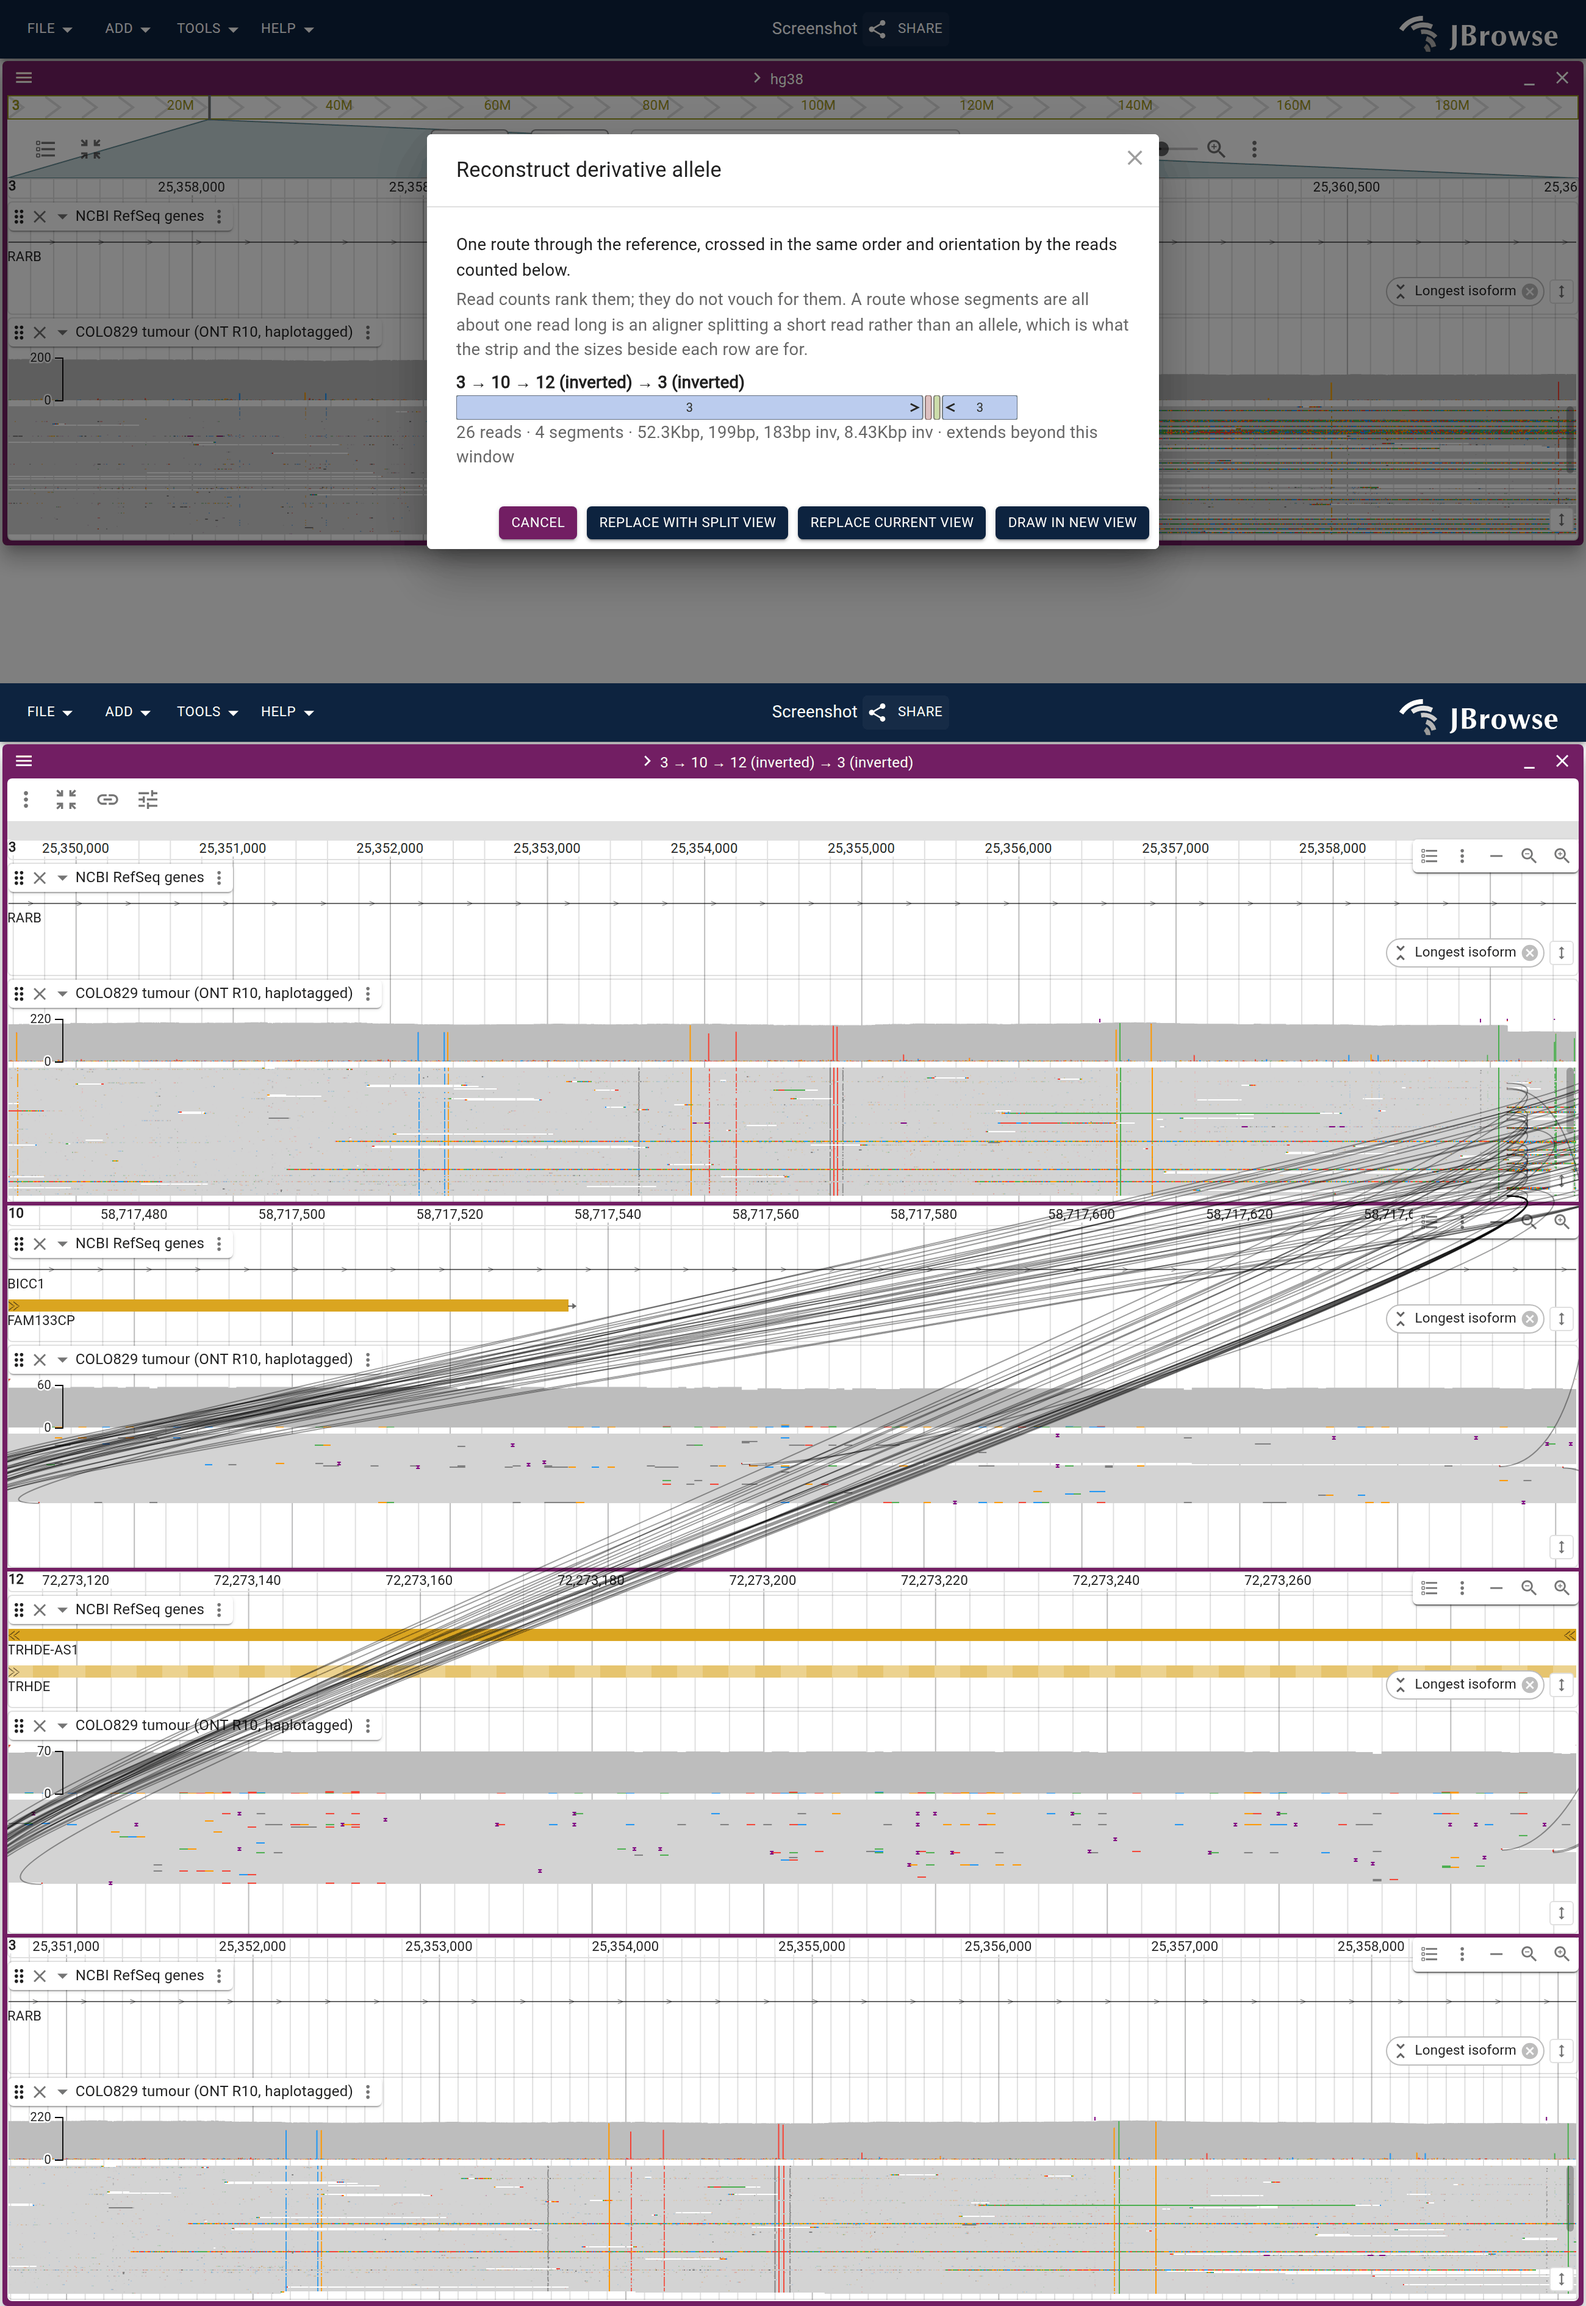
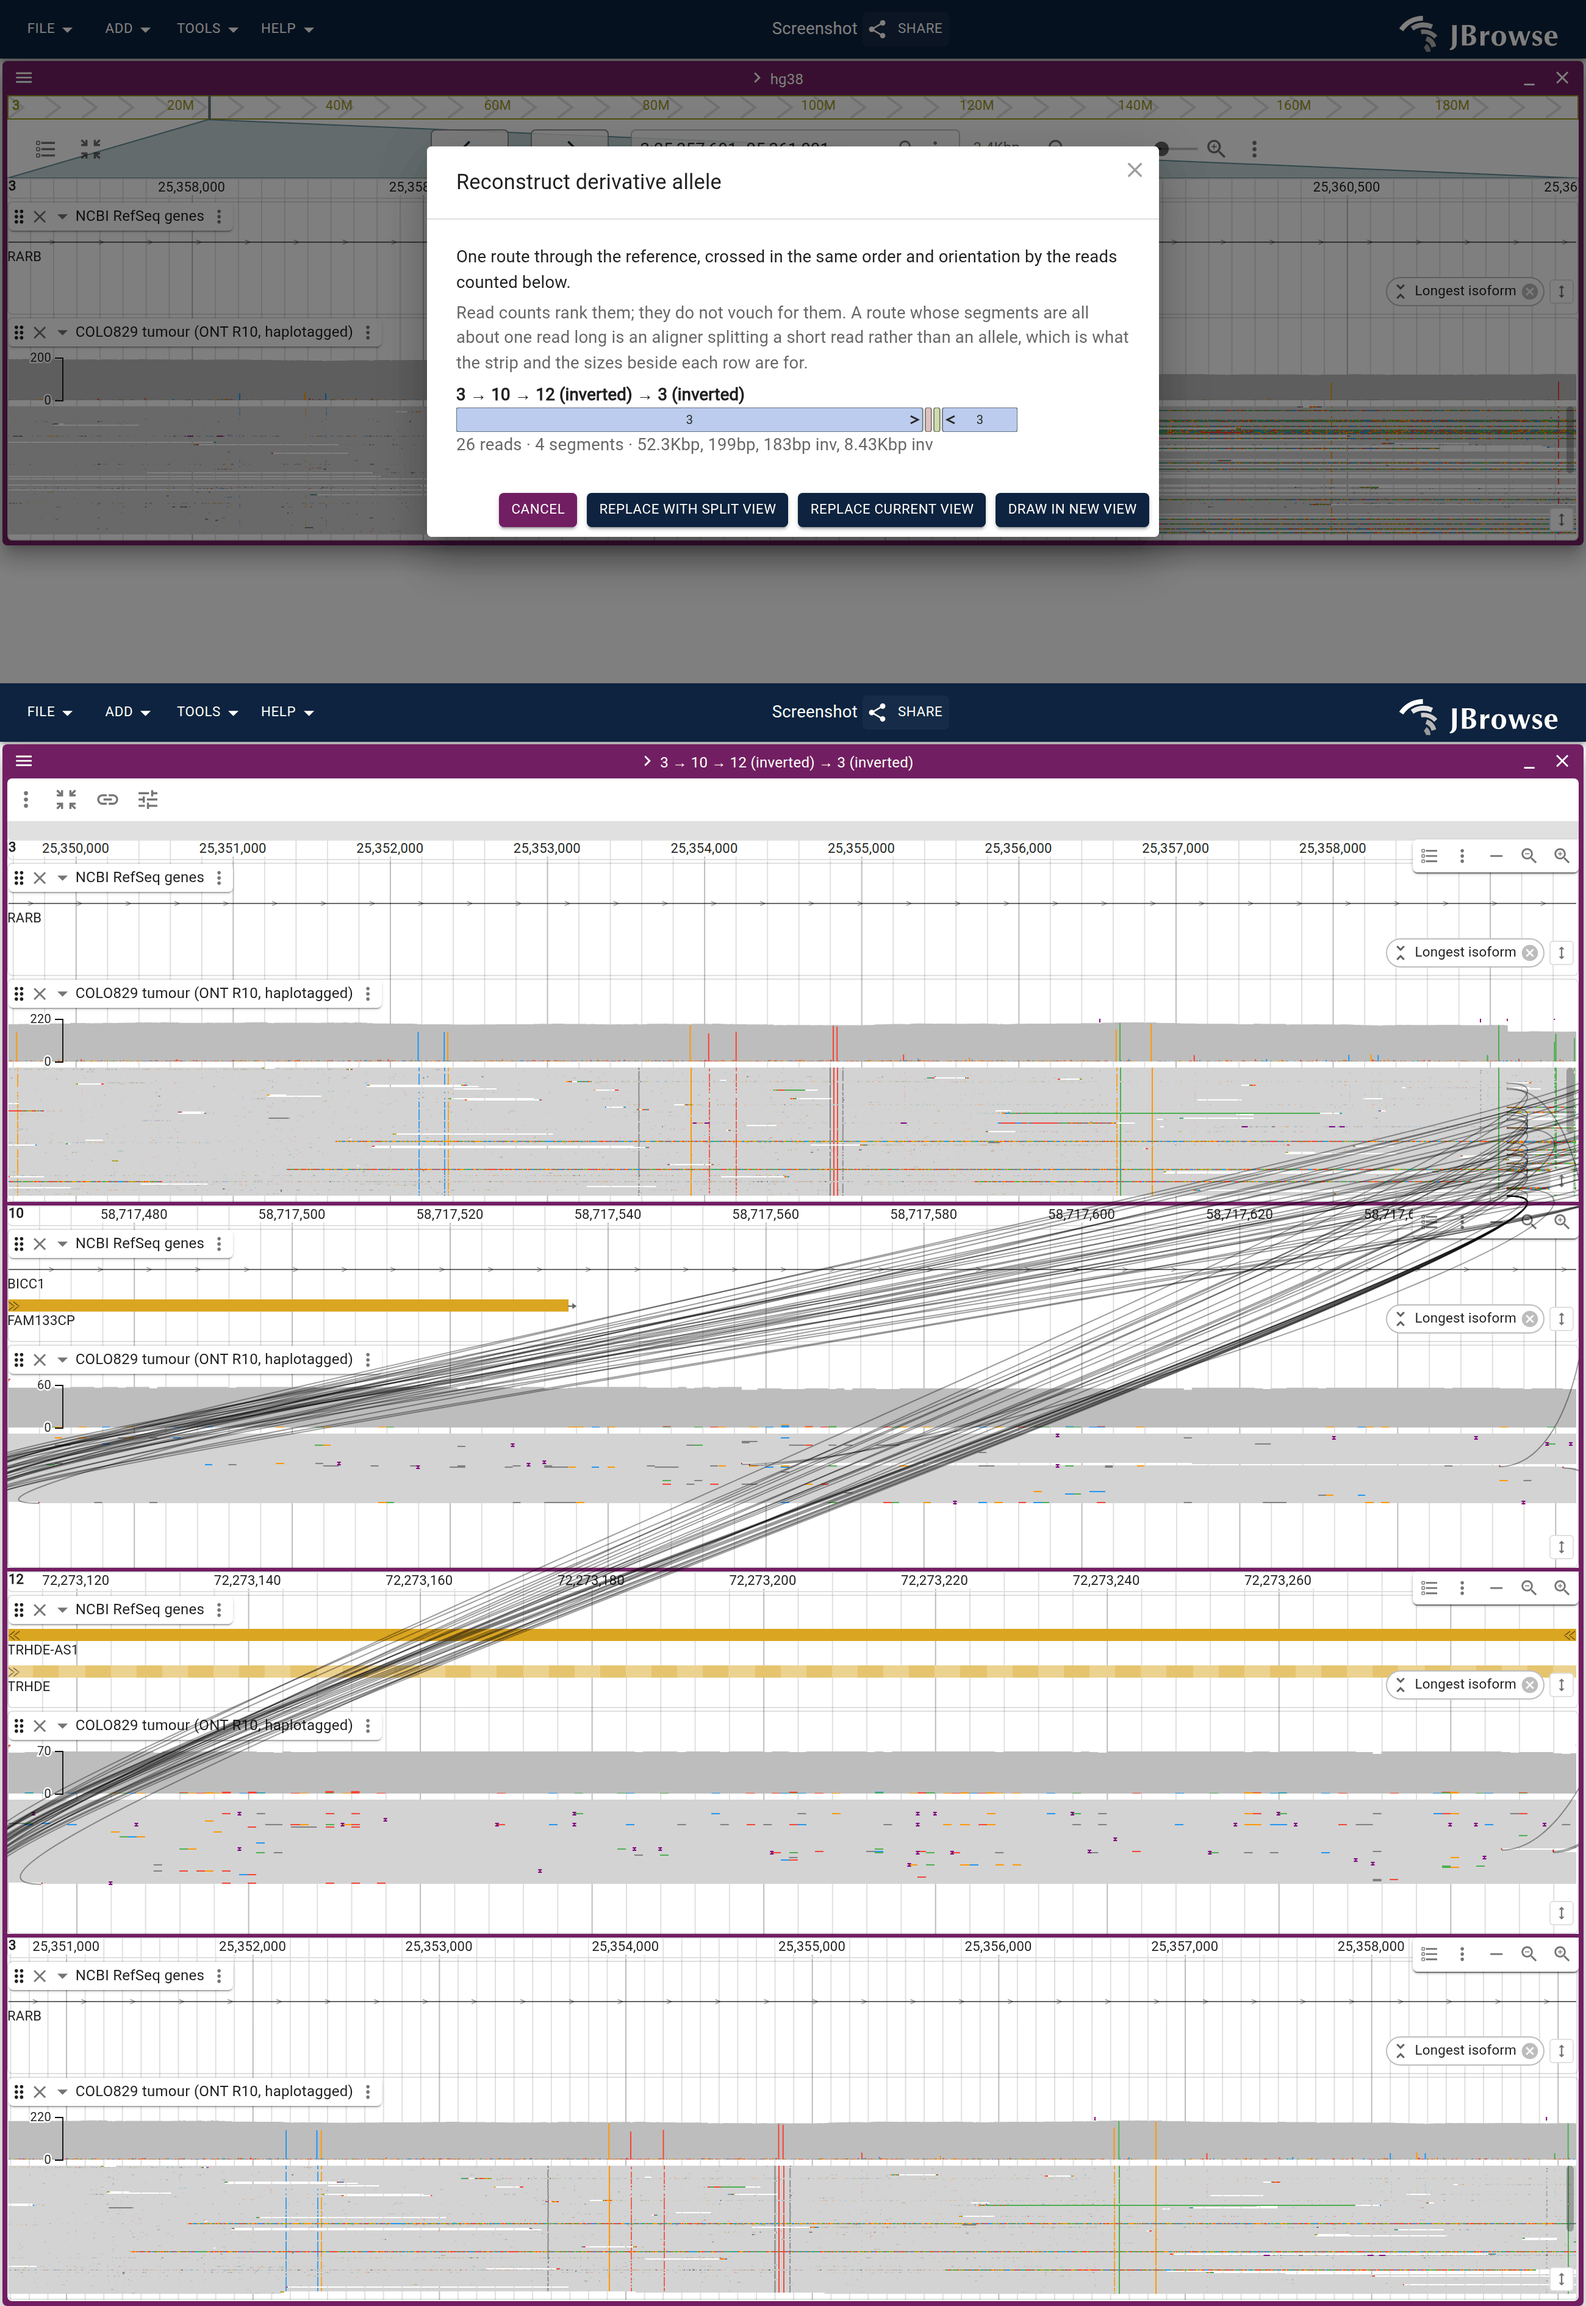
fix(sv): the picker's off-screen note wrapped every row to say the same thing
`extendsOffScreen` documents itself as purely informational and as the normal
case for an interchromosomal event, and on COLO829's two loci it was true of all
four candidates at once. Printed per row it wrapped the sizes onto a fourth
line -- in the der(3) figure and in two of the fold-back's three rows -- to
repeat a fact that distinguished none of them.

Show it only when the candidates disagree about it, which is the case where it
tells a reader which row to pick. Every row is now three lines: what the route
is, the strip, and its evidence.

Claude-Session: https://claude.ai/code/session_019AmHtNEyhJ18cJXJXweLZE

Changed region(s): [[0.2804, 0.0312, 0.7477, 0.2497]]

diff --git a/plugins/linear-comparative-view/src/LinearDerivativeVsRef/LinearDerivativeVsRef.tsx b/plugins/linear-comparative-view/src/LinearDerivativeVsRef/LinearDerivativeVsRef.tsx
@@ -45,8 +45,8 @@ const useStyles = makeStyles()(theme => ({
     fontWeight: 'bold',
   },
   row: {
-    // the strip is the row's width, so give it room to breathe from the radio
-    // and from the next candidate
+    // a three-line row against its neighbour's three lines reads as six lines
+    // of one thing; the gap is what makes each row a row
     paddingBlock: theme.spacing(0.5),
   },
   detail: {
@@ -118,13 +118,32 @@ function showWhenMeasured(panel: SyntenyPanel, show: () => void) {
   )
 }
 
+// `extendsOffScreen` is documented as purely informational and as the normal
+// case for an interchromosomal event — which is to say it is usually true of
+// every row at once, and on COLO829's two loci it is true of all four. A fact
+// that every row states is a fact about the list, and this row has three lines
+// to spend: printed per row it only pushed the sizes onto a wrapped fourth.
+//
+// So it is shown when, and only when, the candidates disagree about it, which
+// is the case where it tells a reader which row to pick — the same rule the
+// dialog's own opening comment sets for what may take a line here.
+function showsOffScreenFlag(candidates: DerivativeCandidate[]) {
+  return new Set(candidates.map(c => c.extendsOffScreen)).size > 1
+}
+
 // One candidate: what it is, what it looks like, and what backs it. The strip
 // carries the shape and the size list the exact figures, which between them are
 // the evidence the caveat above the list asks a reader to weigh — the path's
 // total span, which this row used to print instead, is the same ~60kb whether
 // the path is one 52kb arm carrying three sub-kilobase inserts or four
 // read-length fragments an aligner split apart.
-function CandidateRow({ candidate }: { candidate: DerivativeCandidate }) {
+function CandidateRow({
+  candidate,
+  showOffScreen,
+}: {
+  candidate: DerivativeCandidate
+  showOffScreen: boolean
+}) {
   const { classes } = useStyles()
   return (
     <div className={classes.row}>
@@ -133,7 +152,9 @@ function CandidateRow({ candidate }: { candidate: DerivativeCandidate }) {
       <div className={classes.detail}>
         {candidate.readCount} reads · {candidate.segments.length} segments ·{' '}
         {segmentSizeSummary(candidate.segments)}
-        {candidate.extendsOffScreen ? ' · extends beyond this window' : ''}
+        {showOffScreen && candidate.extendsOffScreen
+          ? ' · extends beyond this window'
+          : ''}
       </div>
     </div>
   )
@@ -161,6 +182,8 @@ const DerivativeVsRefDialog = observer(function DerivativeVsRefDialog({
   // so the overflow is reported rather than dropped: it is the difference
   // between "here is the event" and "these reads map everywhere".
   const candidates = ranked.slice(0, MAX_SHOWN)
+  // decided once, for the list, because that is what it is a property of
+  const showOffScreen = showsOffScreenFlag(candidates)
   const [selected, setSelected] = useState(0)
   const [error, setError] = useState<unknown>()
   const canReplace = isSessionWithViewReplacement(getSession(track))
@@ -412,7 +435,13 @@ const DerivativeVsRefDialog = observer(function DerivativeVsRefDialog({
                 data-testid="derivative-path-candidates"
                 className={classes.soleCandidate}
               >
-                <CandidateRow candidate={candidates[0]!} />
+                {/* always false here — one candidate cannot disagree with
+                    itself — and rightly so: with nothing to pick between, an
+                    informational flag has even less claim on the row */}
+                <CandidateRow
+                  candidate={candidates[0]!}
+                  showOffScreen={showOffScreen}
+                />
               </div>
             ) : (
               <RadioGroup
@@ -427,7 +456,12 @@ const DerivativeVsRefDialog = observer(function DerivativeVsRefDialog({
                     key={candidate.locString}
                     value={idx}
                     control={<Radio />}
-                    label={<CandidateRow candidate={candidate} />}
+                    label={
+                      <CandidateRow
+                        candidate={candidate}
+                        showOffScreen={showOffScreen}
+                      />
+                    }
                   />
                 ))}
               </RadioGroup>

diff --git a/plugins/linear-comparative-view/src/LinearDerivativeVsRef/DerivativePathStrip.tsx b/plugins/linear-comparative-view/src/LinearDerivativeVsRef/DerivativePathStrip.tsx
@@ -72,8 +72,12 @@ export default function DerivativePathStrip({
       // description of the same row.
       aria-hidden="true"
     >
-      {blocks.map(block => (
-        <g key={block.x}>
+      {/* Keyed by position in the path, which is what a block IS — a segment's
+          `x` is a float that only happens to be unique, and a refName repeats
+          whenever a path returns to a chromosome. */}
+      {blocks.map((block, i) => (
+        // eslint-disable-next-line @eslint-react/no-array-index-key -- position in the path IS the block's identity; it is rebuilt whole per candidate and never reordered
+        <g key={i}>
           <title>{block.title}</title>
           <rect
             x={block.x}
